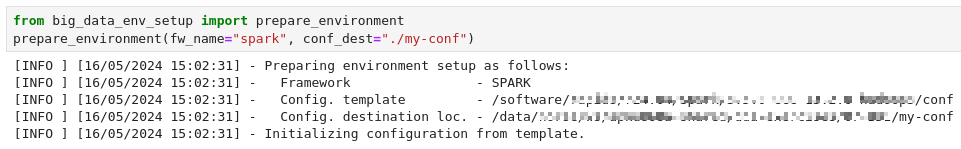
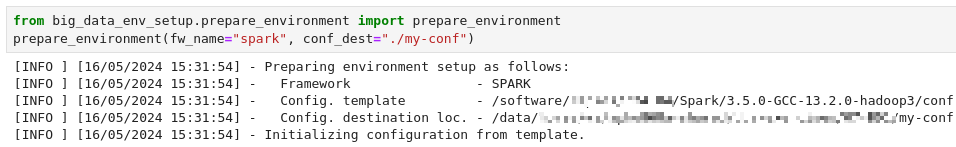
Modified readme

diff --git a/README.md b/README.md
@@ -4,17 +4,19 @@
 This project provides a simple Python module containing tools to setup environment for big data frameworks to be used in [Jupyterhub services](https://compendium.hpc.tu-dresden.de/access/jupyterhub/?h=jupyter) of [ZIH HPC System](https://tu-dresden.de/zih/hochleistungsrechnen/hpc).
 
 ## Installation
-You can install the module using pip:
+You can install the module using pip inside jupyter hub cell:
 
 ```sh
 pip install git+https://gitlab.hrz.tu-chemnitz.de/apku868a--tu-dresden.de/jupyter-python-kernel.git
 ```
+Output can be as follows:
+![install](./images/install.png)
 
 ## Getting started
 
 Here's an example of how to use the module inside jupyter notebook:
 ```python
-from big_data_env_setup import prepare_environment
+from big_data_env_setup.prepare_environment import prepare_environment
 
 # Using default:
 #   - configuration template
@@ -42,3 +44,6 @@ After starting the cluster, one can proceed with the work in subsequent cells.
 
 ## License
 This project is licensed under the GNU GENERAL PUBLIC LICENSE - see the [LICENSE](./LICENSE) file for details.
+
+## Contact
+For more information contact us at [ScaDS.AI](https://scads.ai/scads-ai-team/contact/).
